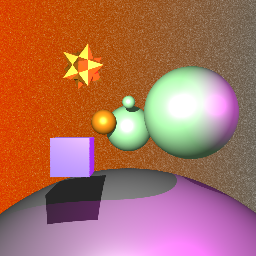
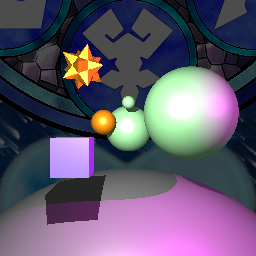
Project:Texture Added

diff --git a/A4.cpp b/A4.cpp
@@ -15,8 +15,8 @@ using namespace std;
 using namespace glm;
 
 #define ANTI_ALIASING 00
-#define REFLECTION 01
-#define DEPTH_OF_FIELD 01
+#define REFLECTION 00
+#define DEPTH_OF_FIELD 00
 
 static const float EPS = 0.000001; // correction factor
 static const float MAX_RGB = 255.0f; // maximum rgb value
@@ -50,11 +50,12 @@ vec3 rayTraceRGB(
 	// Lighting parameters  
 	const glm::vec3 & ambient,
 	const std::list<Light *> & lights,
-	const int reflectionHits = REFLECTION_HITS,
+	const int reflectionHits,
 	const size_t y ,// y position
 	const size_t x ,// x position
-	const size_t h ,
-	const size_t w ,
+	const size_t h ,// output image height
+	const size_t w , // output image width
+	const LoadedPng bgPng // background image details
 ){
 	// TODO: use reflection hits to reflect
 	HitRecord record;
@@ -104,37 +105,34 @@ vec3 rayTraceRGB(
 			refRay.setOrigin(record.hitPointVec);
 			refRay.setDirection(refDirVec);
 			// TODO: Clarify mix use
-			returnColor = glm::mix(returnColor,rayTraceRGB(root, refRay,eye,ambient,lights,reflectionHits - 1),REFLECTION_COEFF );
+			returnColor = glm::mix(returnColor,rayTraceRGB(root, refRay,eye,ambient,lights,reflectionHits - 1,y,x,h,w,bgPng),REFLECTION_COEFF );
 		}
 
 	}else{
 		// Miss happened
-		// Show background color
-		vec3 unitDirVec = glm::normalize(ray.getDirection());
-		float tFloat = unitDirVec.x;
-		// Background color is left to right gradient
-		returnColor = (1 - unitDirVec.x) * vec3(161.0f/MAX_RGB,74.0f/MAX_RGB,8.0f/MAX_RGB) +
-					   unitDirVec.x * vec3(20.0f/MAX_RGB,123.0f/MAX_RGB,186.0f/MAX_RGB) ;
-		if(rand_float() < 0.1){ // add random white pixels
-			returnColor = vec3(0.9,0.9,0.9);
-		}
-
 		// Use texture as background
-		// Using middle position
-		float u = float(x)/w;
-		float v = float(y)/h;
-		auto di = (w-1) * u;
-		auto dj = (h-1) * v;
-		auto i = int(di);
-		auto i = int(dj);
-		auto up = glm::clamp(di - i,0,loadedPNG.loadedWidth);
-		auto vp = glm::clamp(dj - j,0,loadedPNG.loadedHeight);
+		// Using middle area for background
+		auto bgWidthMid = (int)(bgPng.loadedWidth /2);
+		auto bgHeightMid = (int)(bgPng.loadedHeight /2);
 		
-		midCreatedPngWidth = ;
-		midLoadedPnggWidth = ;
-		width
-		returnColor = 
-			   
+		// Place crop at the middle
+		auto cropWidthMid = (int) (w/2);
+		auto cropHeightMid = (int) (h/2);
+		
+		// Offset starting indices for middle crop
+		int offsetWidthIdx = bgWidthMid - cropWidthMid;
+		int offsetHeightIdx = bgHeightMid - cropHeightMid;
+		// Get correspeonding index for array
+		int idx = (offsetHeightIdx + y) * bgPng.loadedWidth + offsetWidthIdx + x ;
+		idx = 4 * idx; // multiplied times 4 because of RGBA length is 4
+		
+		// get Color for pixel
+		returnColor = vec3(bgPng.RGBA[idx],// R
+						   bgPng.RGBA[idx + 1],// G
+						   bgPng.RGBA[idx + 2]) ;//B
+		returnColor = (returnColor/MAX_RGB) * 0.3;// multiplied to reduce instensity
+
+	
 	}
 	return returnColor;
 
@@ -180,23 +178,19 @@ void A4_Render(
 	
 	// Load image section
 	// Declare variables to be altered
-	LoadedPng loadedPNG;
+	LoadedPng bgPng;
 	// std::vector<unsigned char> loadedPNG;
 	// unsigned loadedWidth, loadedHeight;
 	// Decode image into loadedPNG
-  	unsigned error = lodepng::decode(loadedPNG.RGBA, loadedPNG.loadedWidth, loadedPNG.loadedHeight, "kh_stain_glass.png");
+  	unsigned error = lodepng::decode(bgPng.RGBA, bgPng.loadedWidth, bgPng.loadedHeight, "kh_stain_glass.png");
 
   	//if there's an error, display it
   	if(error) {
 		std::cout << "decoder error " << error << ": " << lodepng_error_text(error) << std::endl;
 	}else{
 		cout<< "PNG loaded"<<endl;
-		cout<< "width: " << loadedPNG.loadedWidth<<endl;
-		cout<< "height: " << loadedPNG.loadedHeight<<endl;
-		cout << "first Pixel values"<<endl;
-		cout << "R = "<<int(loadedPNG.RGBA[405400])<<endl;
-		cout << "G = "<<int(loadedPNG.RGBA[405401])<<endl;
-		cout << "B = "<<int(loadedPNG.RGBA[405402])<<endl;
+		cout<< "width: " << bgPng.loadedWidth<<endl;
+		cout<< "height: " << bgPng.loadedHeight<<endl;
 	}
 	
 	// Deal with viewport
@@ -249,7 +243,7 @@ void A4_Render(
 					focalDirVec = focalDirVec - shiftVec;
 					ray.setOrigin(eyePosVec);
 					ray.setDirection(focalDirVec);
-					pixelColorVec += .1 * (rayTraceRGB(root,ray,eye,ambient,lights)/samplesPerPixel );	// constant reduce factor not sure why
+					pixelColorVec += .1 * (rayTraceRGB(root,ray,eye,ambient,lights,REFLECTION_HITS,y,x,h,w,bgPng)/samplesPerPixel );	// constant reduce factor not sure why
 				}
 
 			}
@@ -259,12 +253,12 @@ void A4_Render(
 				size_t samplesPerPixel = 10;
 				for (int i =0;i < samplesPerPixel;++i){
 					ray.setDirection(dirVec + randUnitVector() * (uVec +vVec) * 0.5);
-					pixelColorVec += rayTraceRGB(root,ray,eye,ambient,lights);
+					pixelColorVec += rayTraceRGB(root,ray,eye,ambient,lights,REFLECTION_HITS,y,x,h,w,bgPng);
 				}
 				pixelColorVec = pixelColorVec/samplesPerPixel;
 				
 			}else{
-				pixelColorVec += rayTraceRGB(root,ray,eye,ambient,lights);
+				pixelColorVec += rayTraceRGB(root,ray,eye,ambient,lights,REFLECTION_HITS,y,x,h,w,bgPng);
 			}
 			
 			// Red: 
